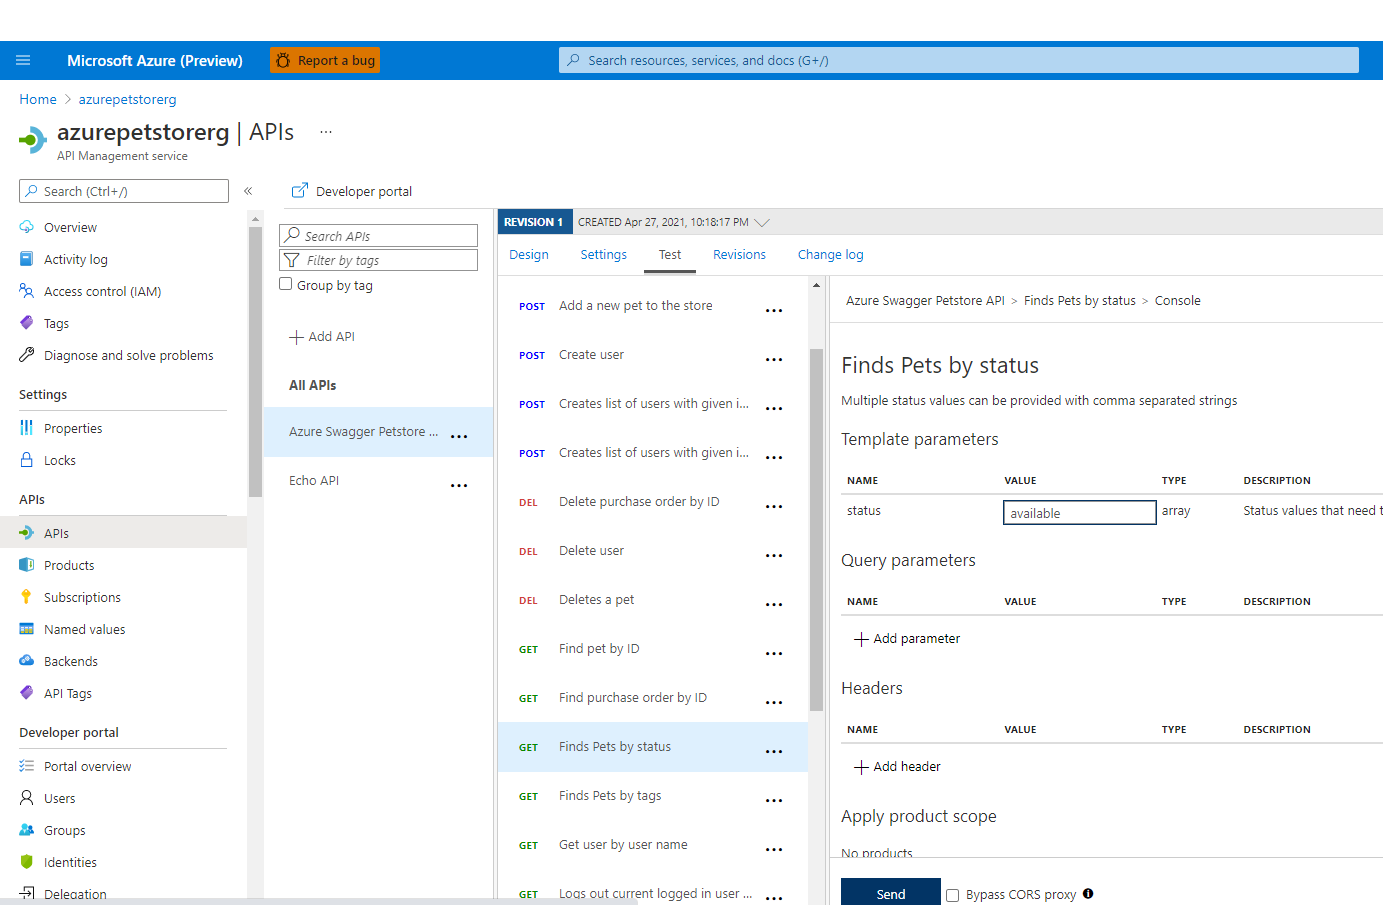
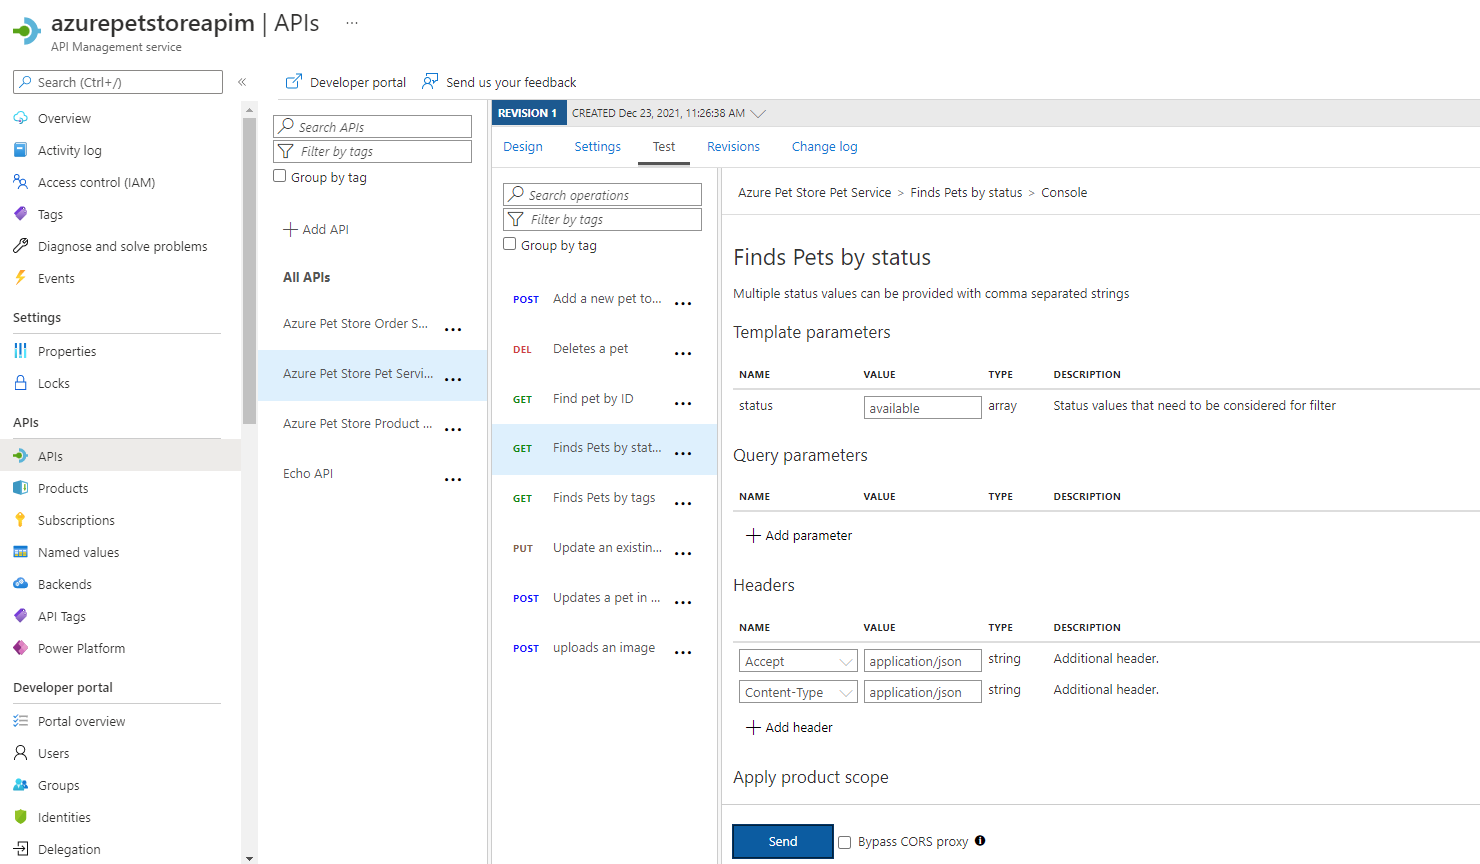
updates

diff --git a/petstore/09-configure-apim-in-front-of-petstoreservice/README.md b/petstore/09-configure-apim-in-front-of-petstoreservice/README.md
@@ -89,15 +89,19 @@ You should see something similar to the below image:
 
 ![](images/2.png)
 
-Click on the Settings tab for each of your newly imported API's and update (globally for all operations) the backend Web Service URL of your Azure Kubernetes NGINX Load Balancer IP Address and click Save.
+Click on the Settings tab for each of your newly imported API's and update (Doing this in settings will update globally for all HTTP operations, if you need to change this per operation you can do so but for our implementation all operation will go to the same back end) the backend Web Service URL of your Azure Kubernetes NGINX Load Balancer IP Address and click Save.
 
 You should see something similar to the below image:
 
 ![](images/3.png)
 
-Select and Operation and Test it out... click "Send"
+Select and Operation and Test it out... 
 
 > 📝 Please Note, I've chosen the GET Operation for Find Pets by status "available"
+
+You'll need to pass the status parameter "available" and the 2 required headers "Accept" and "Content-Type" both of which are "application/json". APIM will automagically insert the subscription headers for us at this point.
+
+click "Send"
 
 You should see something similar to the below image:
 
